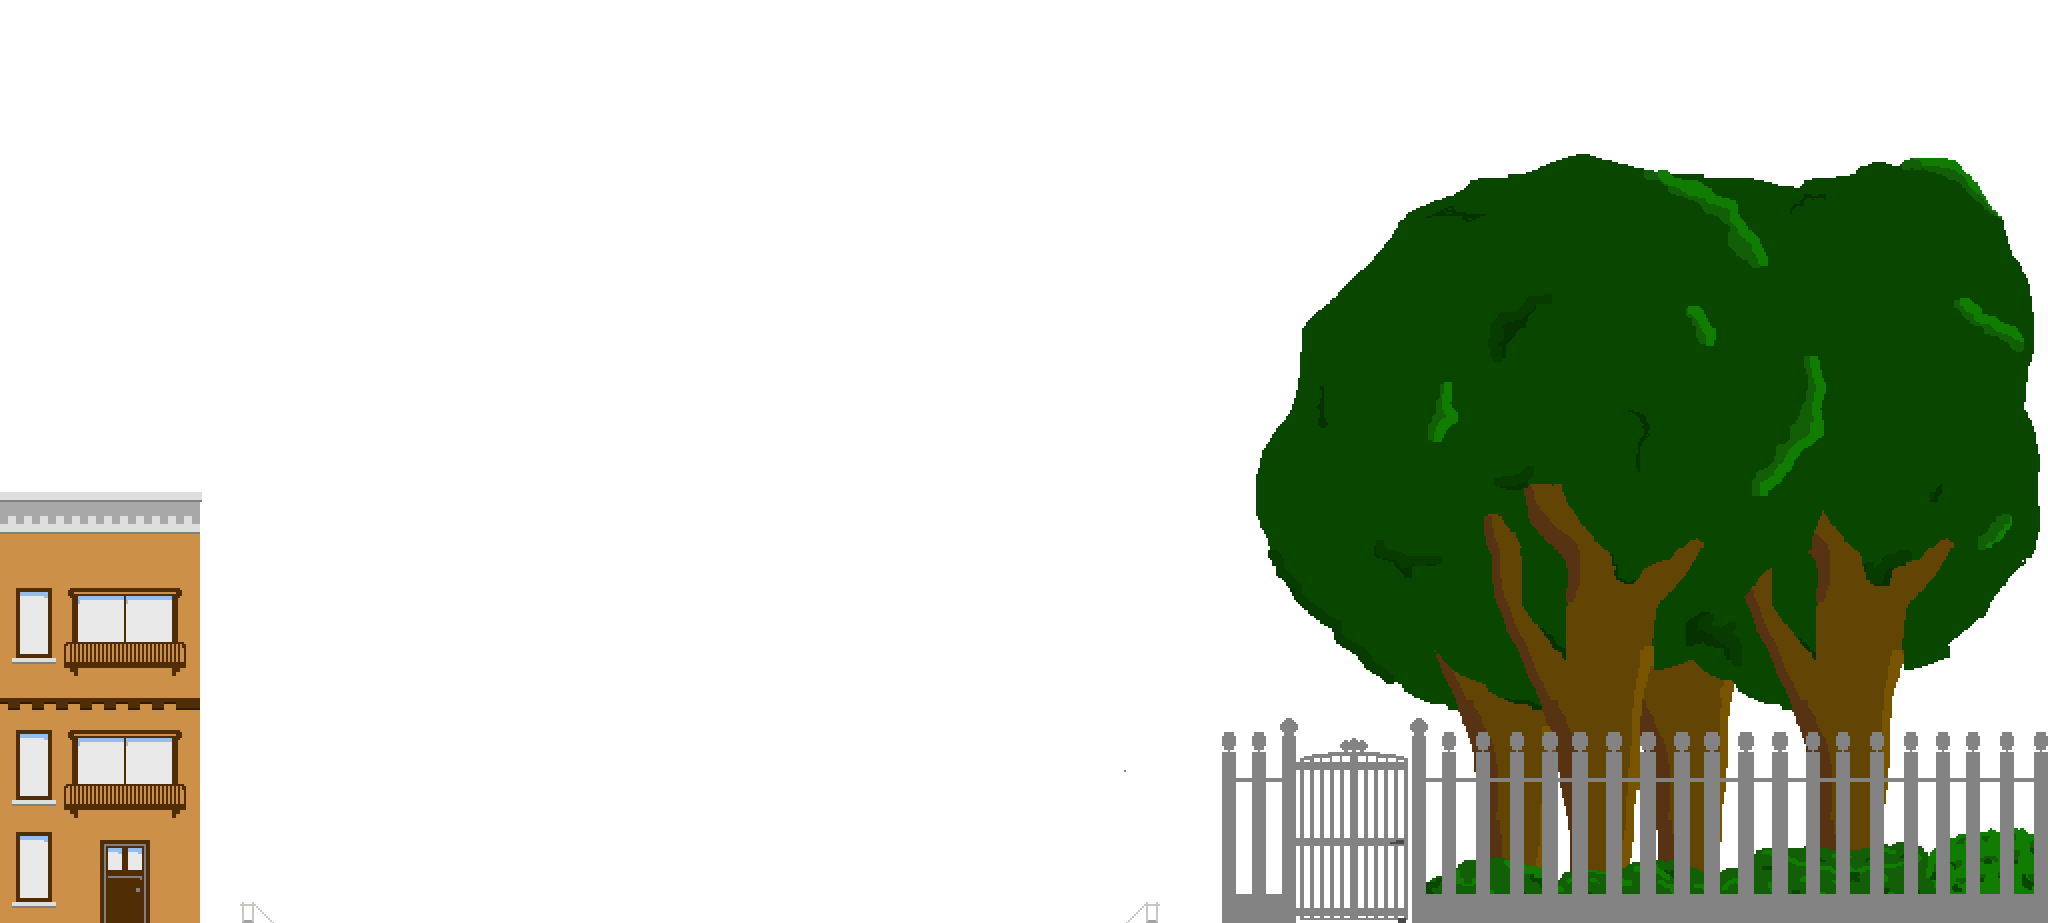
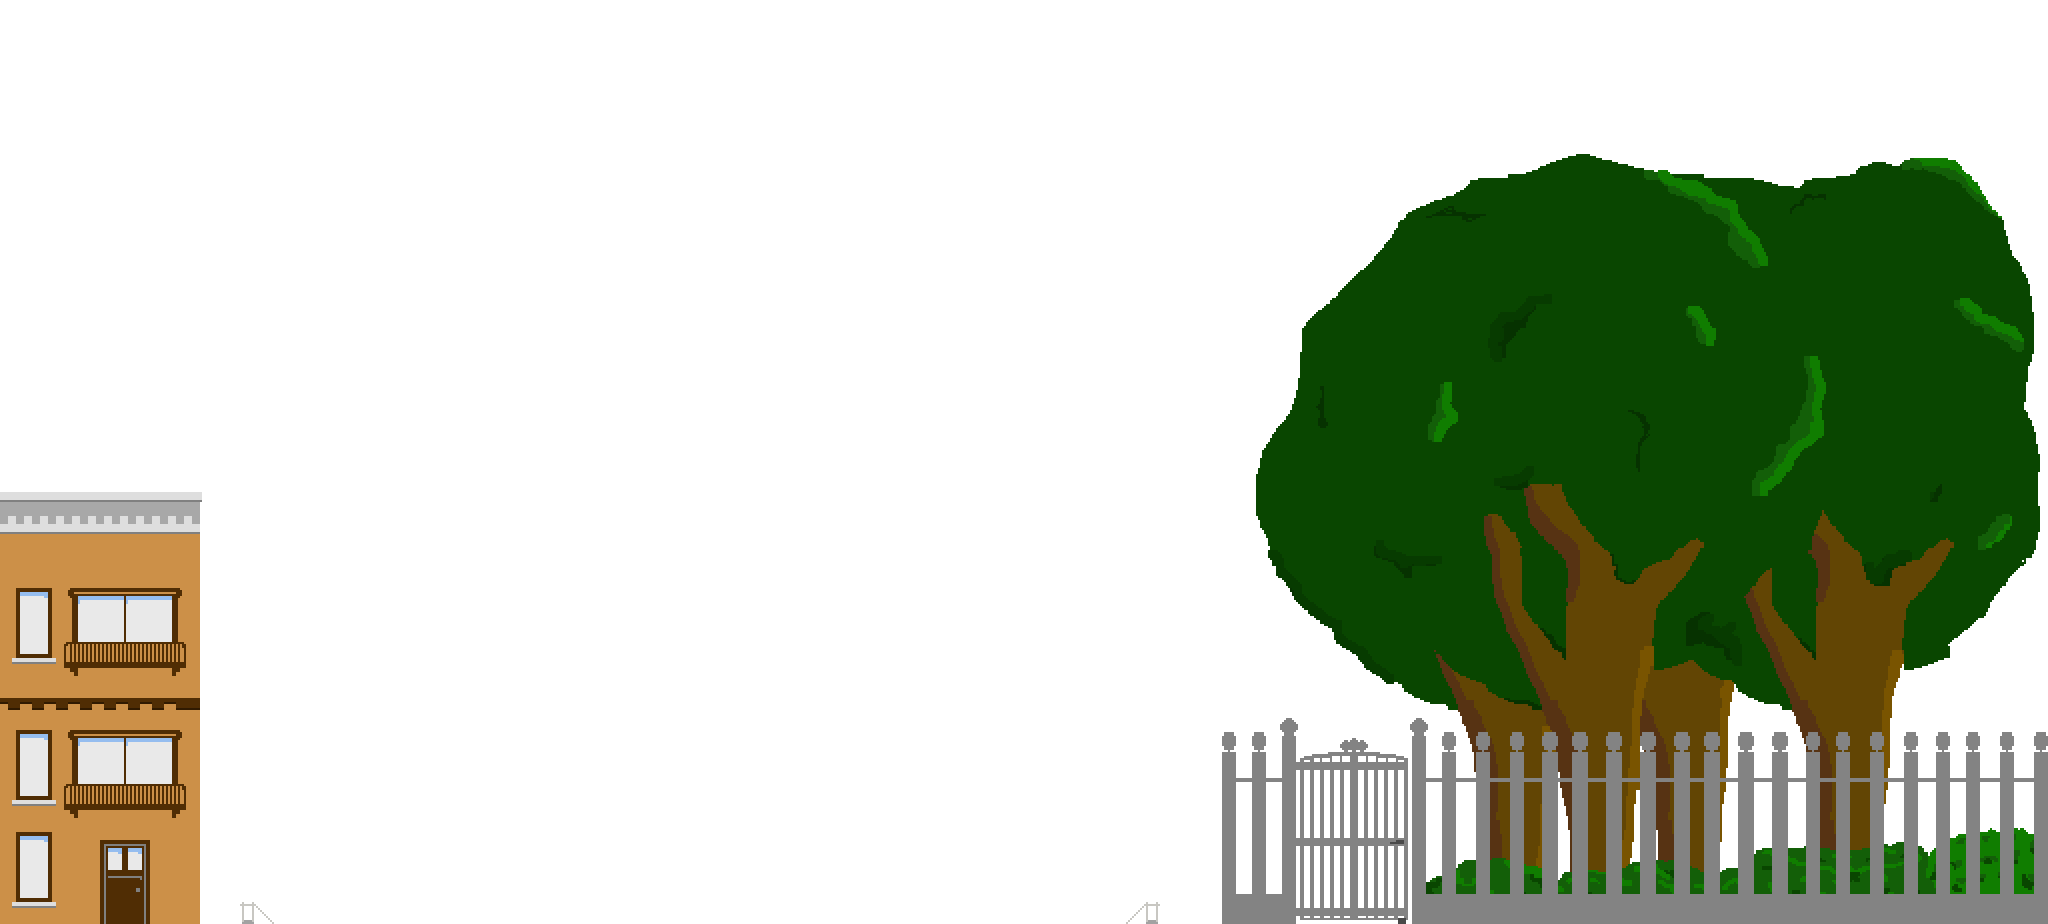
ajout
ajout du parc + sol

Changed region(s): [[0.0312, 0.7887, 0.0938, 0.8191], [0.0312, 0.6371, 0.0938, 0.6674]]

diff --git a/src/scripts/app.js b/src/scripts/app.js
@@ -32,7 +32,8 @@ function preload(){
     this.load.image("ground", "assets/bg/sol.png");
     this.load.image("cone", "assets/objects/travaux-panneau.png");
     this.load.image("money", "assets/objects/money.png");
-    this.load.image("bateau", "assets/objects/bateau.png")
+    this.load.image("bateau", "assets/objects/bateau.png");
+    this.load.image("groundParc", "assets/bg/sol_parc.png");
     
     // walking
     this.load.spritesheet("player_walking", "assets/player/henriwalking.png",{
@@ -102,7 +103,7 @@ function create(){
 
     // exec quand le jeu est chargé une premiere fois
     this.house = this.add.tileSprite(-40, 226, 4096, 512, 'background').setOrigin(0, 0);
-    this.parc = this.add.tileSprite(4056, -185, 2048, 1024, 'background1').setOrigin(0, 0);
+    this.parc = this.add.tileSprite(4056, -185, 2048, 924, 'background1').setOrigin(0, 0);
 
 
     // bateau
@@ -124,6 +125,7 @@ function create(){
 
     // visuel qui répète l’image
     this.ground = this.add.tileSprite(-40, 738, 4096, 100, 'ground').setOrigin(0, 0);
+    this.parcGround = this.add.tileSprite(4056, 738, 2048, 100, 'groundParc').setOrigin(0, 0);
     
     // collider invisible (rectangle physique)
     let groundCollider = this.physics.add.staticImage(600, 788, null) // sans texture
@@ -194,7 +196,7 @@ function create(){
     });
 
 
-    this.physics.world.createDebugGraphic();
+    //this.physics.world.createDebugGraphic();
 
 }
 
